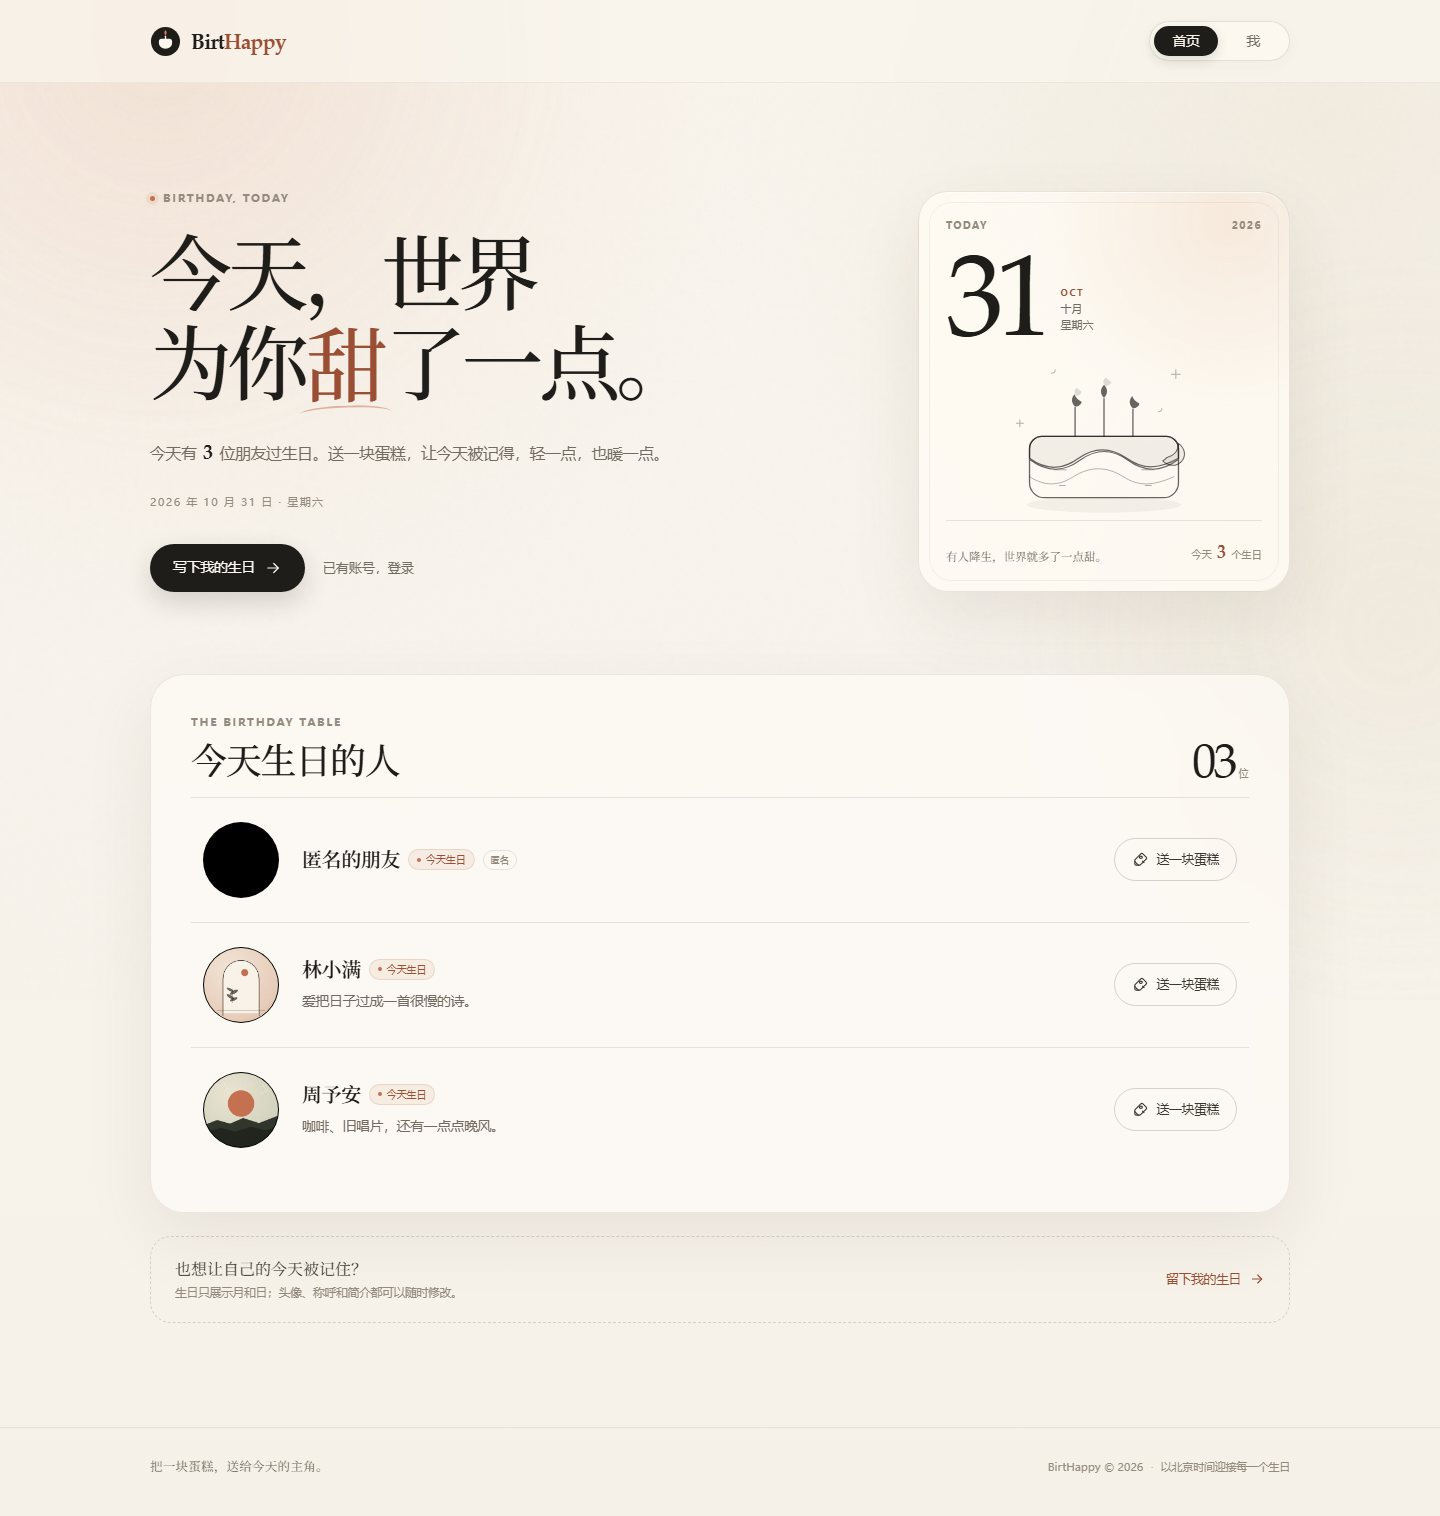
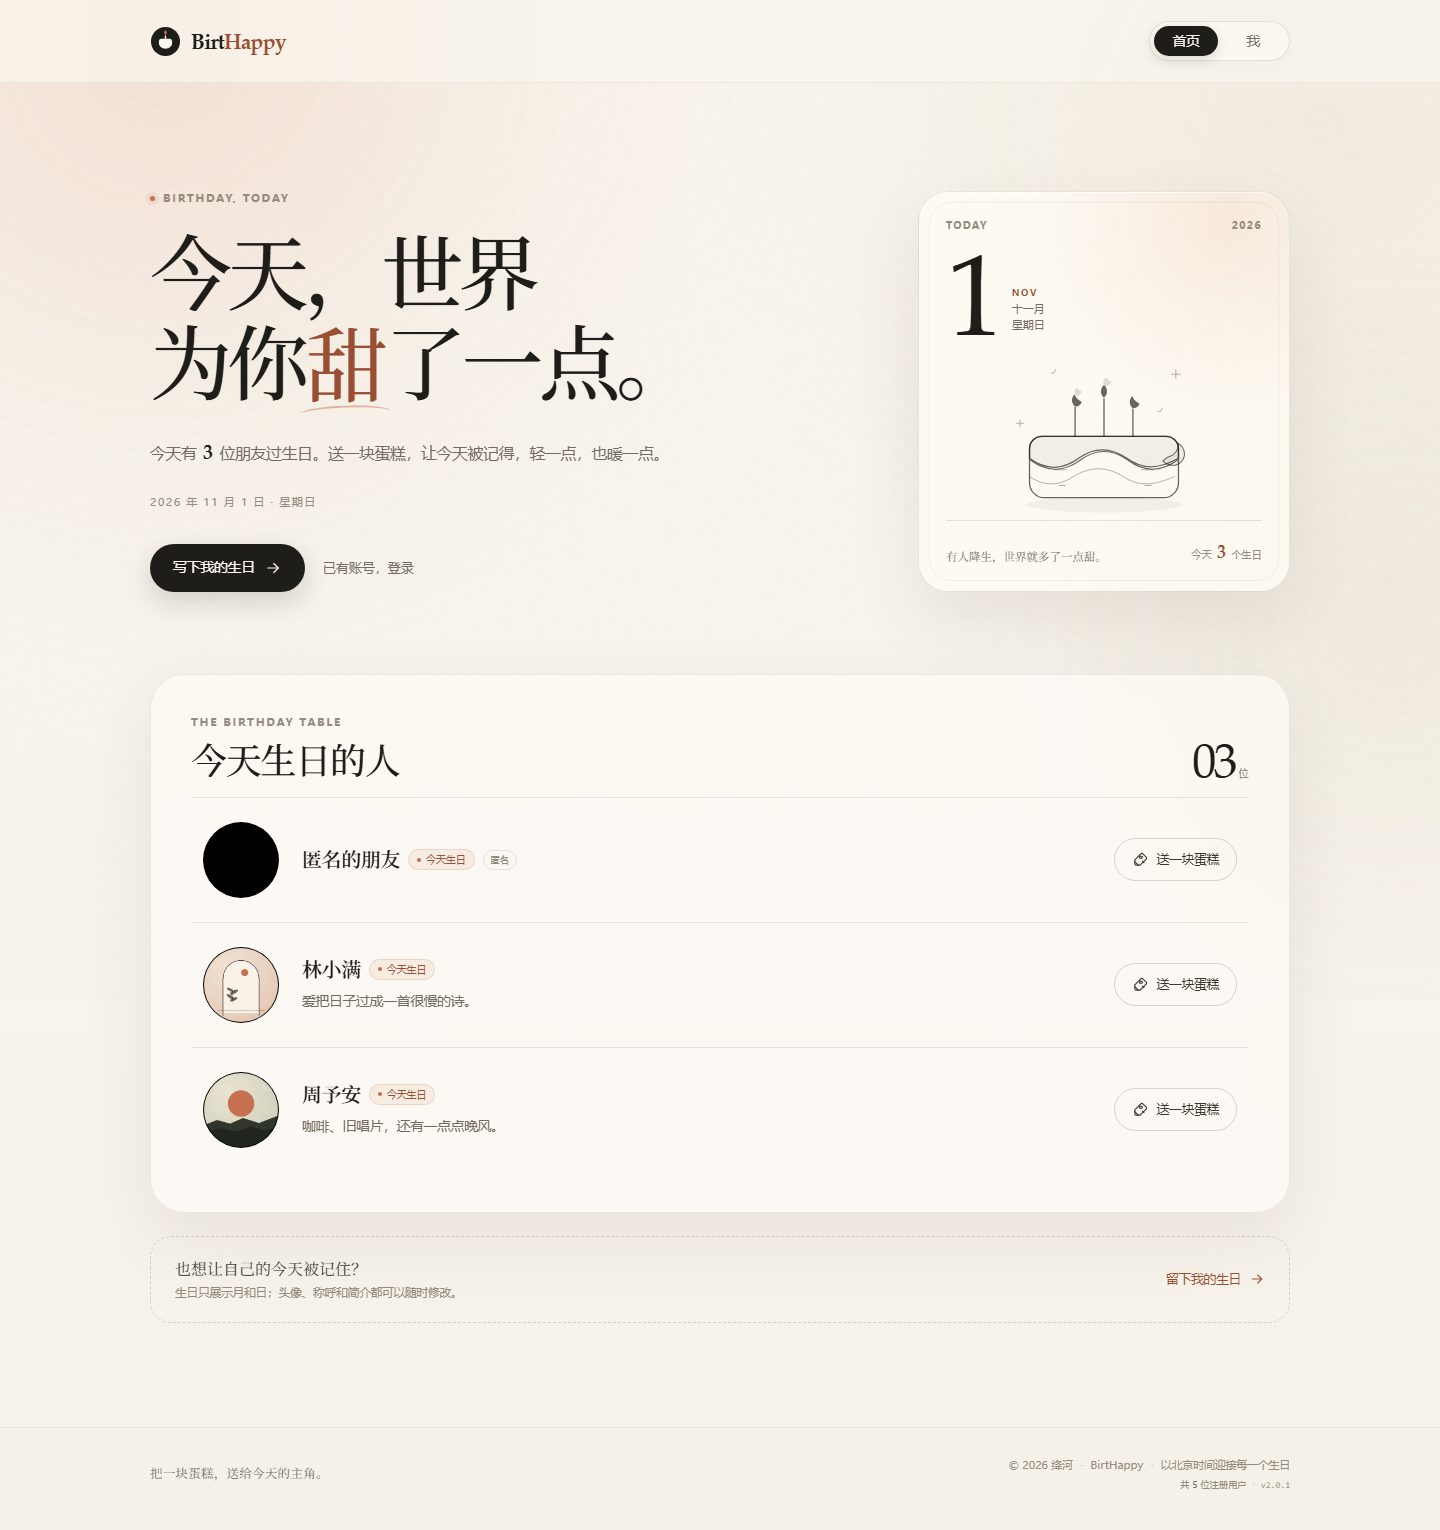
docs: refresh v2.0.1 screenshots and birthappy.cn deployment details

diff --git a/src/components/EmailCodeField.tsx b/src/components/EmailCodeField.tsx
@@ -121,13 +121,15 @@ export function EmailCodeField({
       />
       <p className="mail-security-note">
         <SparkIcon aria-hidden="true" />
-        验证邮件由 BirtHappy 通过 Resend 发出
-        {mailSender ? (
-          <>
-            （发件地址：<strong>{mailSender}</strong>）
-          </>
-        ) : null}
-        ，可能被判定为垃圾邮件，请同时检查垃圾箱或广告邮件。请勿向任何人提供验证码。
+        <span>
+          验证邮件由 BirtHappy 通过 Resend 发出
+          {mailSender ? (
+            <>
+              （发件地址：<strong>{mailSender}</strong>）
+            </>
+          ) : null}
+          ，可能被判定为垃圾邮件，请同时检查垃圾箱或广告邮件。请勿向任何人提供验证码。
+        </span>
       </p>
       {message ? (
         <p className="email-code-status is-success" role="status">

diff --git a/src/app/globals.css b/src/app/globals.css
@@ -3539,9 +3539,15 @@ h3 {
   color: var(--accent);
 }
 
+.mail-security-note > span {
+  flex: 1;
+  min-width: 0;
+}
+
 .mail-security-note strong {
   color: var(--ink-soft);
   font-weight: 600;
+  overflow-wrap: anywhere;
 }
 
 .email-code-status {

diff --git a/src/lib/mail-constants.ts b/src/lib/mail-constants.ts
@@ -1,1 +1,1 @@
-export const MAIL_SENDER_FALLBACK = "BirtHappy <onboarding@resend.dev>";
+export const MAIL_SENDER_FALLBACK = "BirtHappy <noreply@birthappy.cn>";

diff --git a/docs/维护手册.md b/docs/维护手册.md
@@ -1,7 +1,7 @@
 # BirtHappy 维护手册
 
 > 项目目录：`D:\Daily\AI-projects\BirtHappy`  
-> 生产地址：https://birthappy.netlify.app  
+> 生产地址：https://birthappy.cn（备用：https://birthappy.netlify.app）
 > 代码仓库：https://github.com/Einstein-07/birthappy  
 > 托管：Netlify  
 > 数据库：Turso（数据库名 `birthappy`）  
@@ -162,7 +162,7 @@ Remove-Item Env:TURSO_DATABASE_URL
    $token = Read-Host "粘贴 BACKUP_TOKEN"
    Invoke-WebRequest `
      -Method Post `
-     -Uri "https://birthappy.netlify.app/api/admin/backup" `
+     -Uri "https://birthappy.cn/api/admin/backup" `
      -Headers @{ "x-backup-token" = $token } `
      -OutFile "backups\birthappy-production-$(Get-Date -Format yyyyMMdd-HHmmss).json"
    ```
@@ -209,7 +209,7 @@ git push
 
 1. Netlify 自动构建；
 2. 约 1 分钟生产部署完成；
-3. 无痕窗口打开 https://birthappy.netlify.app 验证。
+3. 无痕窗口打开 https://birthappy.cn 验证；Netlify 子域名仍可作为备用入口。
 
 ### 节省 Netlify credits
 
@@ -255,7 +255,7 @@ BACKUP_TOKEN=至少 32 位随机字符串
 
 Scope 必须包含 **Functions** 和 **Runtime**，建议选 **All**。
 
-- `RESEND_FROM` 必须使用 Resend 已验证域名下的地址，例如 `BirtHappy <noreply@your-domain.com>`。
+- `RESEND_FROM` 必须使用 Resend 已验证域名下的地址，当前为 `BirtHappy <noreply@birthappy.cn>`。
 - 未验证域名时只能用 `onboarding@resend.dev` 测试地址，通常只能发到 Resend 账户自己的邮箱。
 - Netlify Functions 无法直连 QQ SMTP；v2.0.1 起统一使用 Resend HTTP API。不要恢复 `MAIL_*` 变量。
 - 修改环境变量后必须重新部署。

diff --git a/docs/Netlify部署指南.md b/docs/Netlify部署指南.md
@@ -11,7 +11,7 @@ Netlify 的 Next.js Runtime 基于 OpenNext，官方支持 App Router、SSR、Ro
 - [Next.js on Netlify 官方文档](https://docs.netlify.com/build/frameworks/framework-setup-guides/nextjs/overview/)
 - [Netlify 定价](https://www.netlify.com/pricing/)
 
-> 部署完成后地址形如 `https://birthappy.netlify.app`。`*.netlify.app` 在国内的可达性通常优于 `*.vercel.app`，但仍可能因地区网络变化。
+> 当前生产地址为 <https://birthappy.cn>，`https://birthappy.netlify.app` 仍可用。自定义域名需要在 Netlify 绑定并完成 HTTPS 证书签发。
 
 ## 1. 前置准备
 
@@ -44,7 +44,7 @@ node -e "console.log(require('crypto').randomBytes(32).toString('base64'))"
 3. 在 **Domains** 确认域名状态为已验证。
 4. 将 `RESEND_FROM` 设置为该域名下的地址，例如：
    ```text
-   BirtHappy <noreply@your-domain.com>
+   BirtHappy <noreply@birthappy.cn>
    ```
 5. 未验证域名时，Resend 只允许使用 `onboarding@resend.dev` 测试地址，通常只能发到 Resend 账户自己的邮箱，无法给普通用户发验证码。
 
@@ -183,6 +183,8 @@ birthappy-einstein
 ```text
 https://birthappy.netlify.app
 ```
+
+当前生产同时绑定自定义域名 <https://birthappy.cn>，DNS 在阿里云管理；Netlify 子域名保留为备用入口。
 
 ## 7. 上线验收
 
